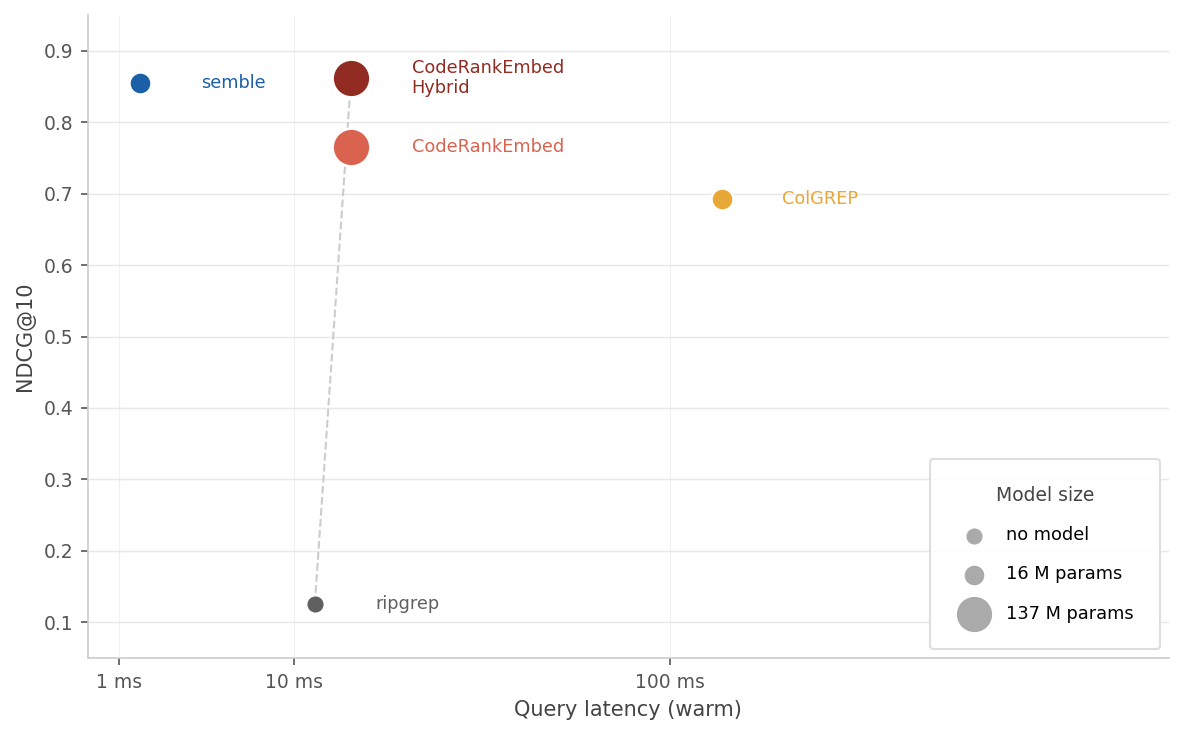
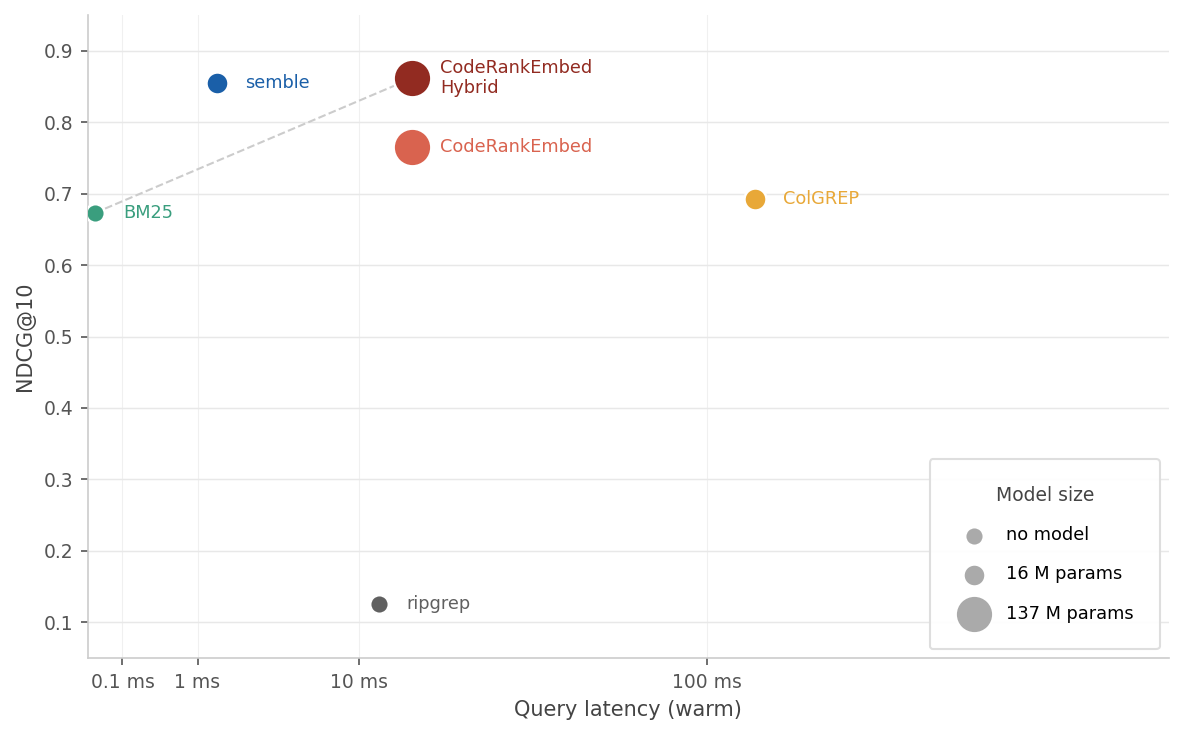
feat: Add BM25 to speed-vs-quality plots; extend warm xlim; fix sub-ms axis labels

diff --git a/benchmarks/plot.py b/benchmarks/plot.py
@@ -30,6 +30,14 @@ _METHODS: list[_Method] = [
         "params_m": 0,
     },
     {
+        "name": "BM25",
+        "ndcg10": 0.673,
+        "index_ms": 262.6,  # same semble index infrastructure; BM25 component adds negligible overhead
+        "query_p50_ms": 0.019,
+        "color": "#3a9e7e",
+        "params_m": 0,
+    },
+    {
         "name": "ColGREP",
         "ndcg10": 0.6925,
         "index_ms": 5750.6,
@@ -64,16 +72,16 @@ _METHODS: list[_Method] = [
 ]
 
 # Fixed label offset in cube-root(ms) space — gives a consistent visual gap at every x-position.
-# The warm plot spans ~1–500 ms so needs a much smaller delta than the cold plot (~100 ms–100 s).
+# The warm plot spans ~0.01–500 ms so needs a much smaller delta than the cold plot (~100 ms–100 s).
 _CBRT_LABEL_DELTA_COLD = 2.0
-_CBRT_LABEL_DELTA_WARM = 0.4
+_CBRT_LABEL_DELTA_WARM = 0.2
 
 # Frontier methods per mode.
-# Cold: incumbent prior-art curve (ripgrep → ColGREP → CRE Hybrid); semble floats above it.
-# Warm: incumbent prior-art curve (ripgrep → CRE Hybrid); semble floats above/left of it.
+# Cold: incumbent prior-art curve (ripgrep → BM25 → ColGREP → CRE Hybrid); semble floats above it.
+# Warm: BM25 dominates ripgrep (faster and higher NDCG), so incumbent curve is BM25 → CRE Hybrid.
 _FRONTIER_NAMES: dict[str, set[str]] = {
-    "cold": {"ripgrep", "ColGREP", "CodeRankEmbed\nHybrid"},
-    "warm": {"ripgrep", "CodeRankEmbed\nHybrid"},
+    "cold": {"ripgrep", "BM25", "ColGREP", "CodeRankEmbed\nHybrid"},
+    "warm": {"BM25", "CodeRankEmbed\nHybrid"},
 }
 
 
@@ -96,6 +104,8 @@ def _format_ms(v: float, _: object) -> str:
     """Format milliseconds as a human-readable time string."""
     if v >= 1_000:
         return f"{v / 1_000:.0f} s"
+    if v < 1:
+        return f"{v:.1g} ms"
     return f"{v:.0f} ms"
 
 
@@ -163,8 +173,8 @@ def _make_plot(out_path: Path, *, warm: bool = False) -> None:
 
     if warm:
         ax.set_xlabel("Query latency (warm)", fontsize=10, color="#444444")
-        ax.set_xlim(0.5, 500)
-        ax.set_xticks([1, 10, 100])
+        ax.set_xlim(0.01, 500)
+        ax.set_xticks([0.1, 1, 10, 100])
     else:
         ax.set_xlabel("Query latency (cold)", fontsize=10, color="#444444")
         ax.set_xlim(5, 200_000)
